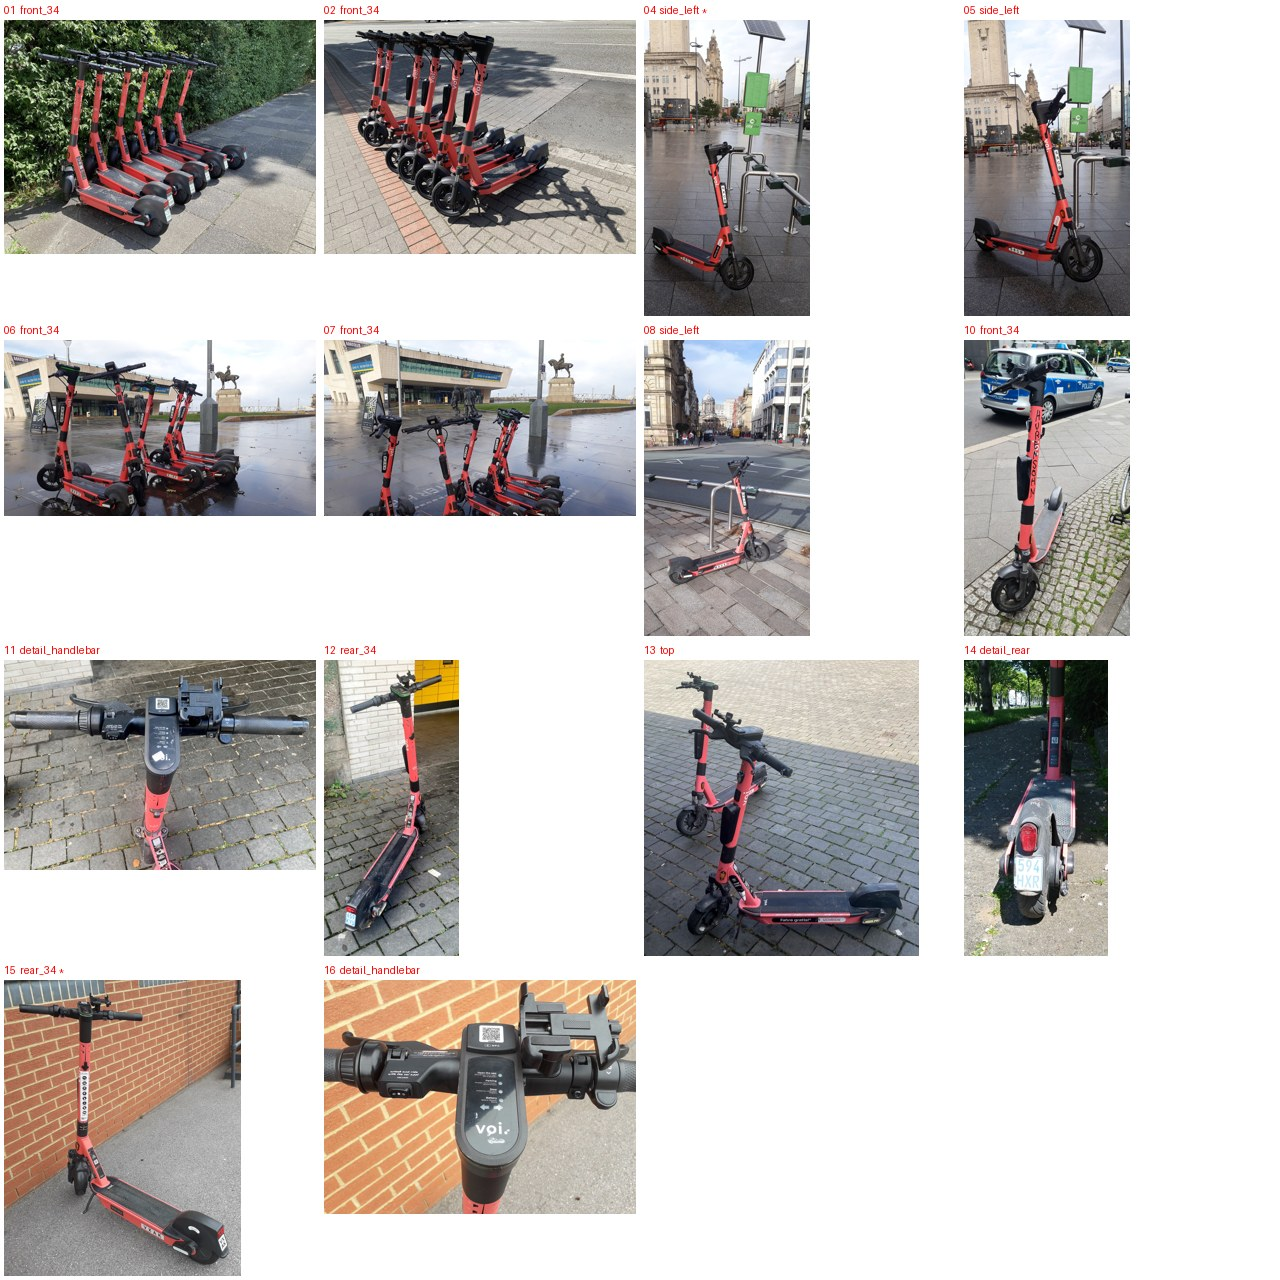
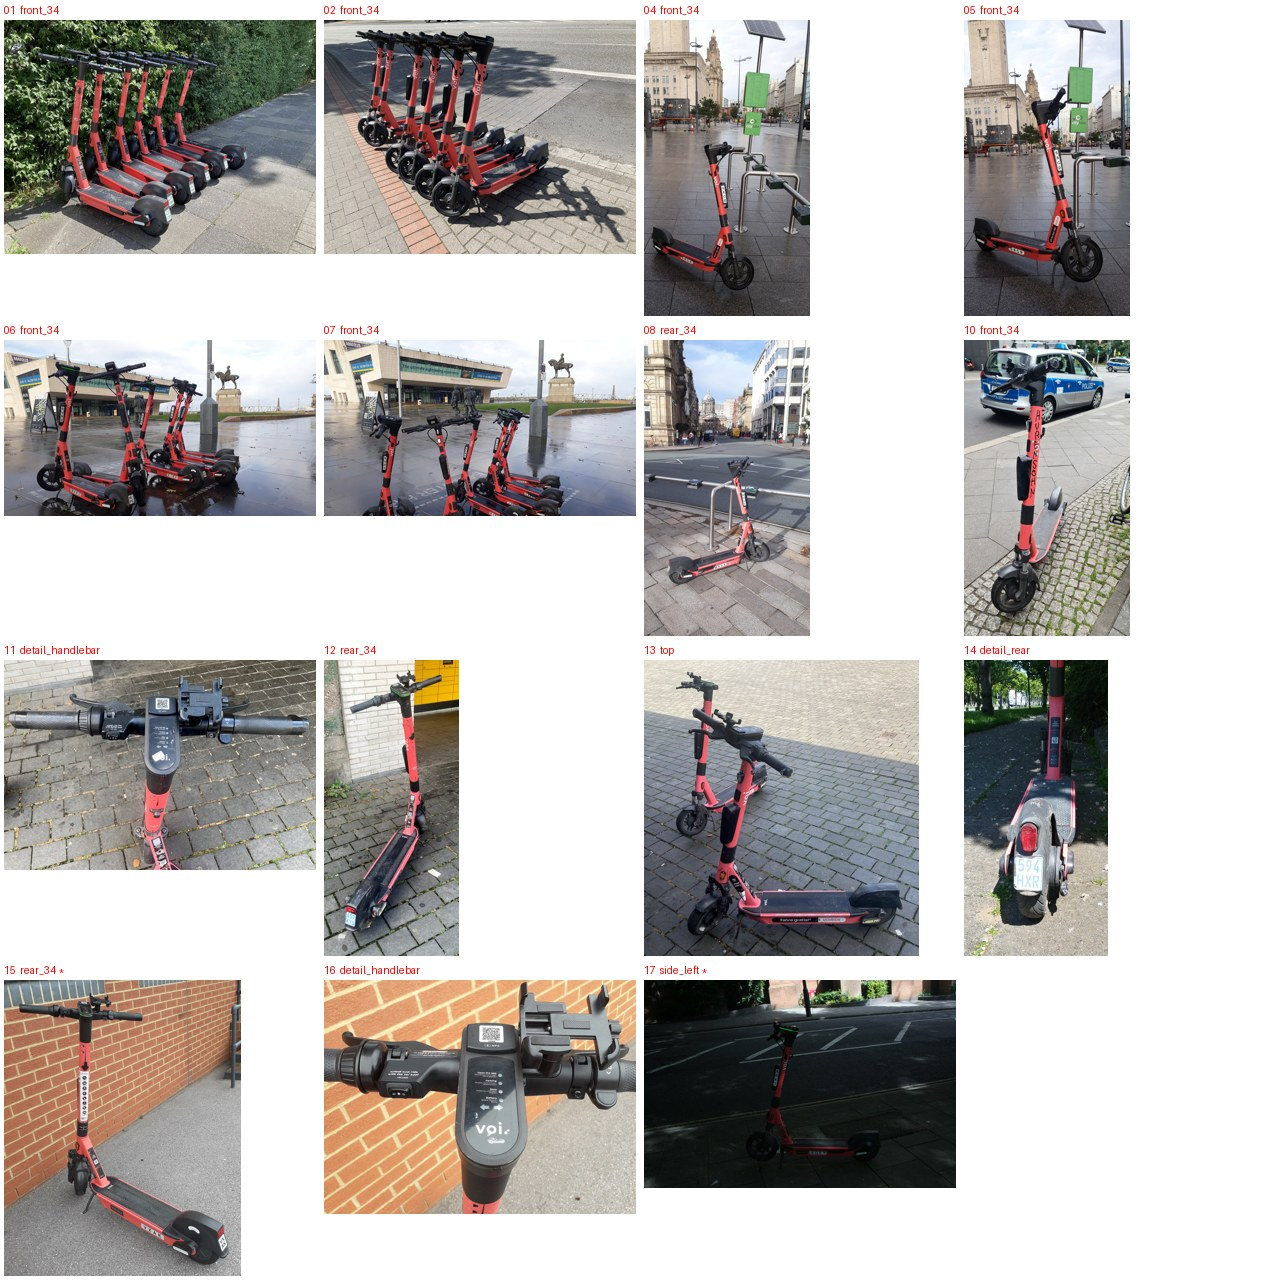
art: add Bristol side view as key photo, fix view tags

Changed region(s): [[0.5, 0.75, 0.75, 0.9375]]

diff --git a/RunnerGame/CREDITS.md b/RunnerGame/CREDITS.md
@@ -31,3 +31,4 @@ A prepared attribution especially for use in Social Media and Print (newspapers,
 - `ref/14.jpg`: "E-Scooter HL Germany.jpg" by Jochen64, CC BY-SA 4.0, https://commons.wikimedia.org/wiki/File:E-Scooter_HL_Germany.jpg
 - `ref/15.jpg`: "Voi e-scooter used as part of the Portsmouth official 2021 Voi rental trial.jpg" by Djm-leighpark, CC BY-SA 4.0, https://commons.wikimedia.org/wiki/File:Voi_e-scooter_used_as_part_of_the_Portsmouth_official_2021_Voi_rental_trial.jpg
 - `ref/16.jpg`: "Electric scooter controls (Voi Portsmoiuth 2021).jpg" by Djm-leighpark, CC BY-SA 4.0, https://commons.wikimedia.org/wiki/File:Electric_scooter_controls_(Voi_Portsmoiuth_2021).jpg
+- `ref/17.jpg`: "VOI Scooter in Bristol - June 2022.jpg" by Captain Galaxy, CC BY 4.0, https://commons.wikimedia.org/wiki/File:VOI_Scooter_in_Bristol_-_June_2022.jpg
